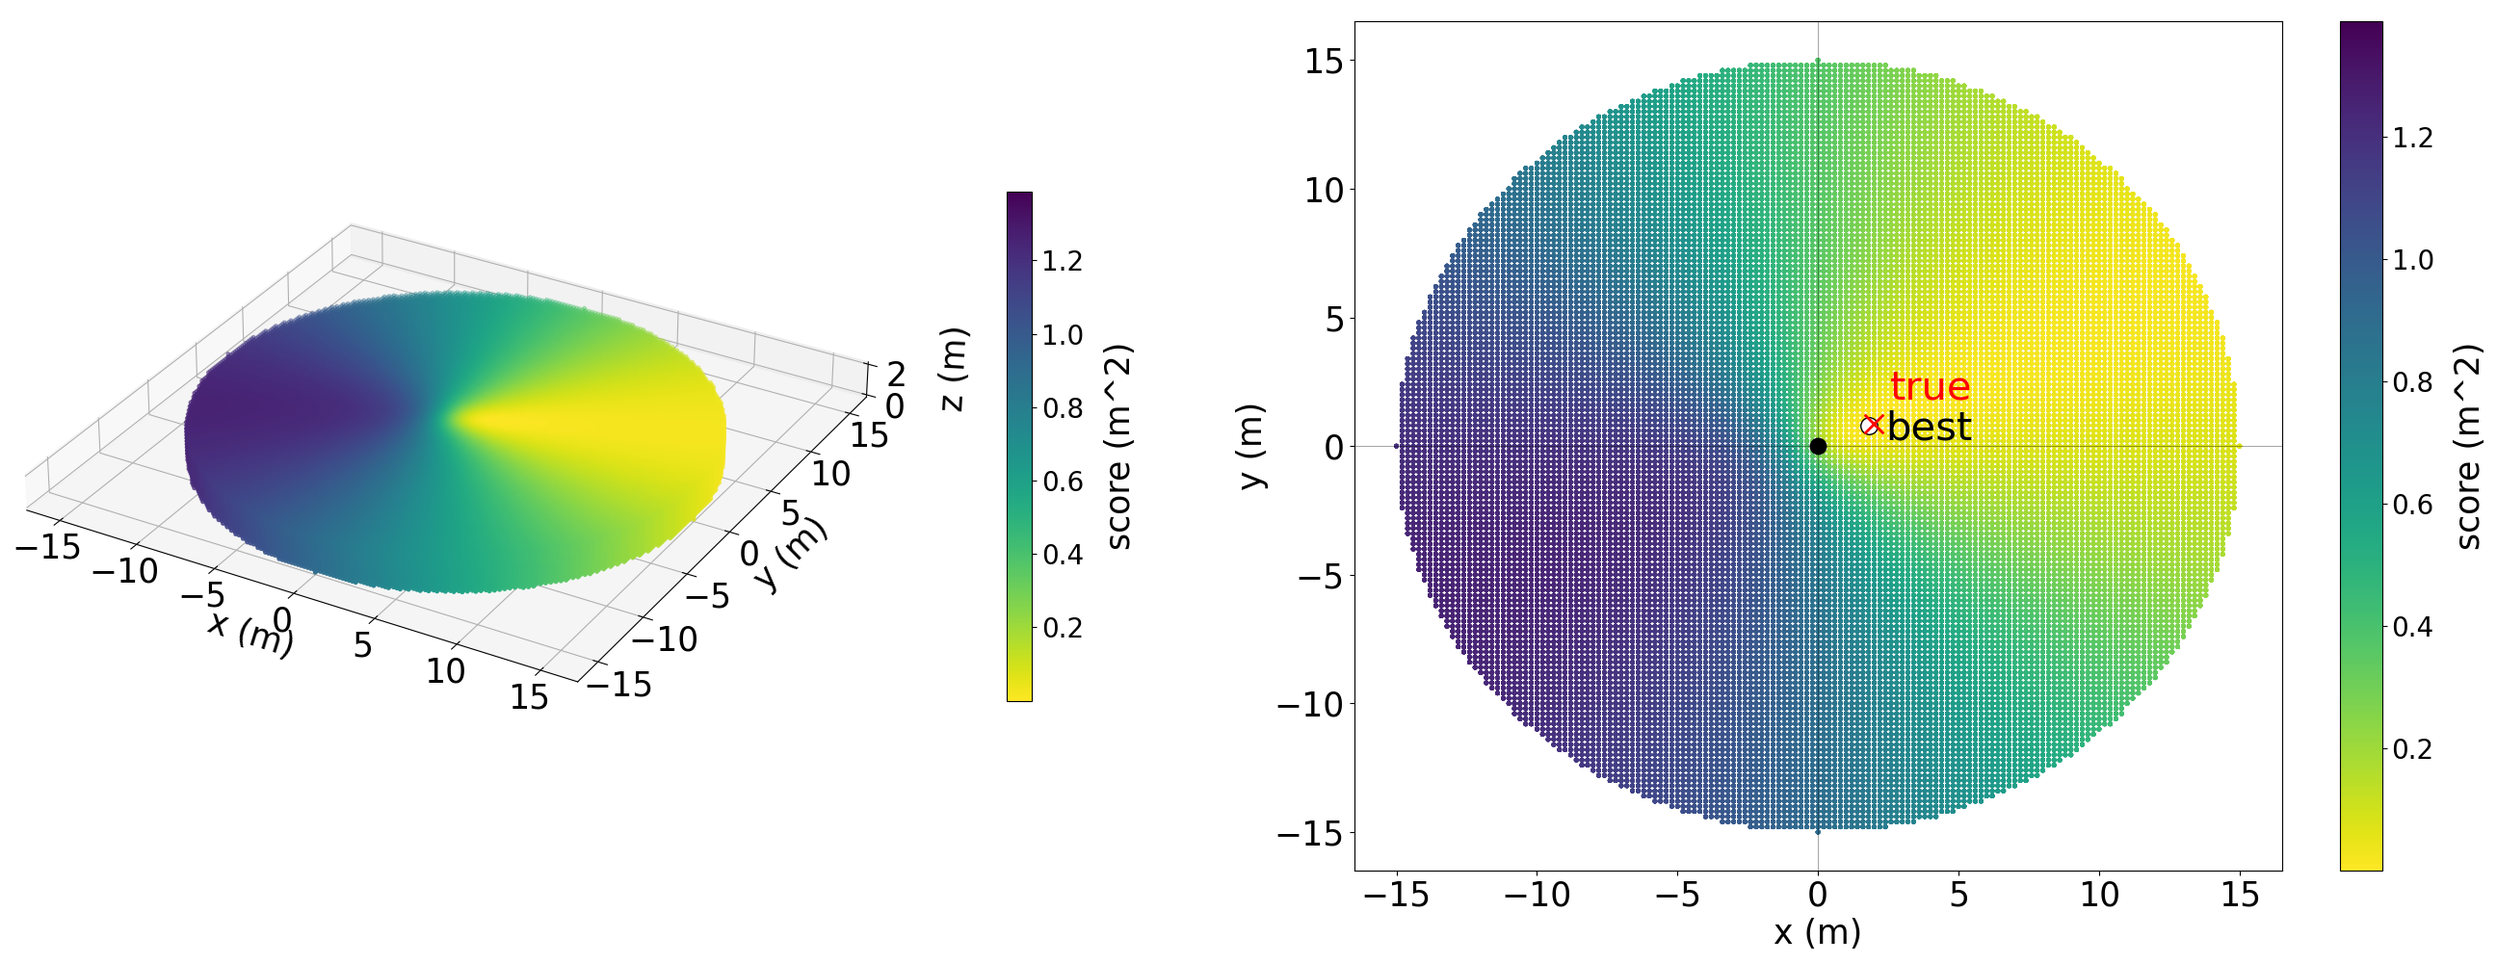
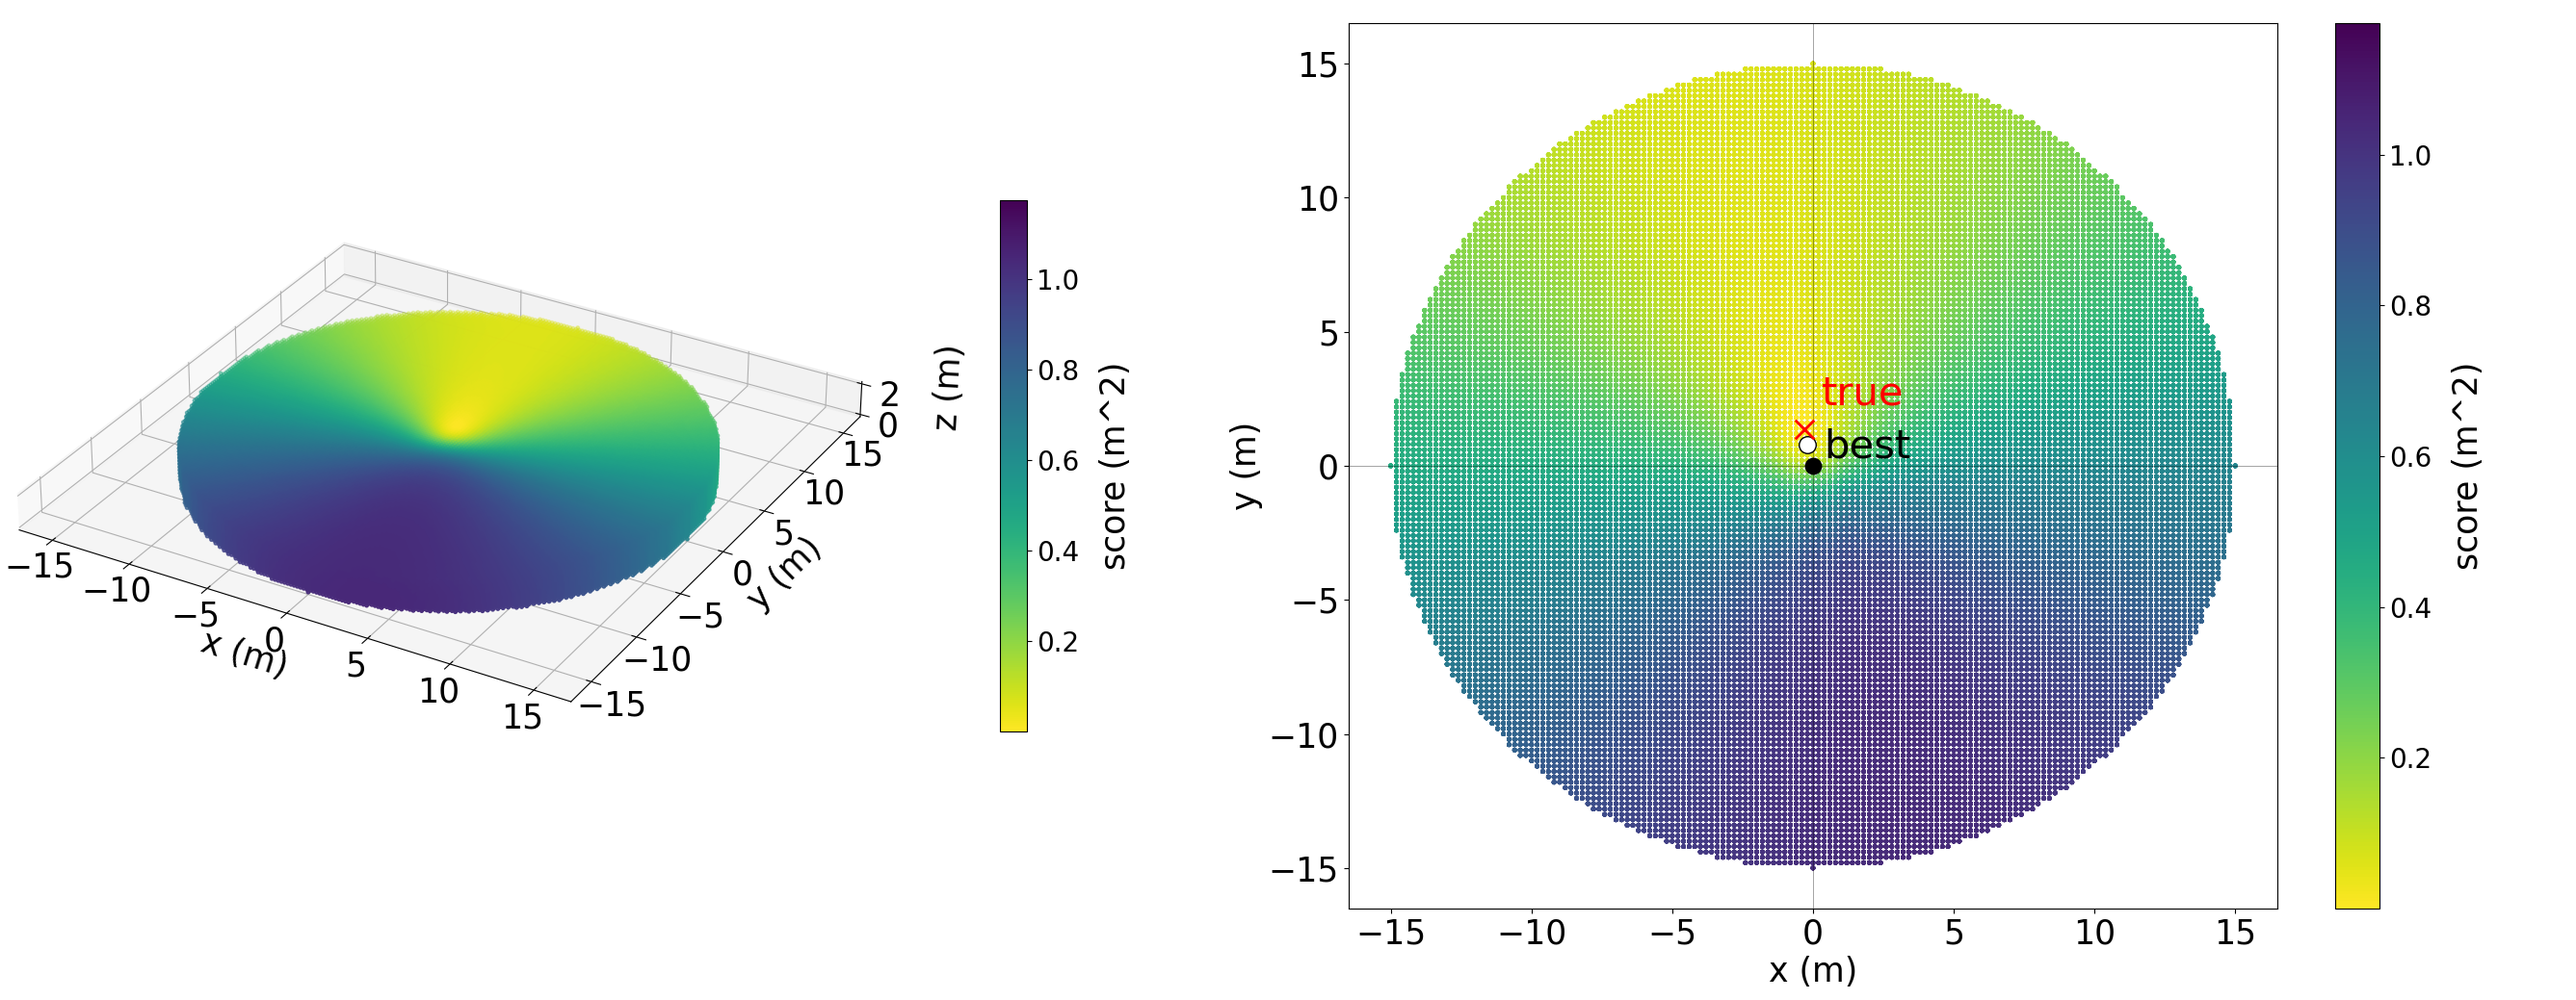
new triangulation on real data

diff --git a/Sections/sound_localisation.tex b/Sections/sound_localisation.tex
@@ -125,12 +125,12 @@ In total the formula for finding the position of the sound source becomes:
     \text{argmin}_{P} \sum_{(a,b)} (\|P - M_b\| - \|P - M_a\| - \Delta d^{measured}_{ab})^2
 \end{equation}
 
-In practice a 3D grid, which is a cylinder with a 15 meter radius and a 2 meter height, is designed for triangulation with a space of 20 cm between each point making the error margin a maximum of $\sqrt{10^2 + 10^2} = 14.14$ cm. However, an error of this size isn't a point of concern, since the error is relatively small. An example of the triangulation on perfect TDOA-values that match a certain point can be seen in \cref{fig:Triangulation_Example}.
+In practice a 3D grid, which is a cylinder with a 15 meter radius and a 2 meter height, is designed for triangulation with a space of 20 cm between each point making the error margin a maximum of $\sqrt{10^2 + 10^2} = 14.14$ cm. However, an error of this size isn't a point of concern, since the error is relatively small. An example of the triangulation on TDOA-values from the robot, in comparison to the correct theoretical values from the point, can be seen in \cref{fig:Triangulation_Example}.
 
 \begin{figure}[H]
     \centering
     \includegraphics[width=1.0\linewidth]{Pictures/Triangulation_Example.png}
-    \caption{Example of the triangulation algorithm used on a random point.}
+    \caption{Example of the triangulation algorithm used on TDOA-values from the robot, in comparison to the correct theoretical values from the point. Here it is seen there is a quite large distance error of 0.98 m, however the angle error is only 2.1 degrees. This demonstrates that the algorithm is able to find the angle with small error, but that the distance estimation is quite inaccurate in comparison.}
     \label{fig:Triangulation_Example}
 \end{figure}
 
